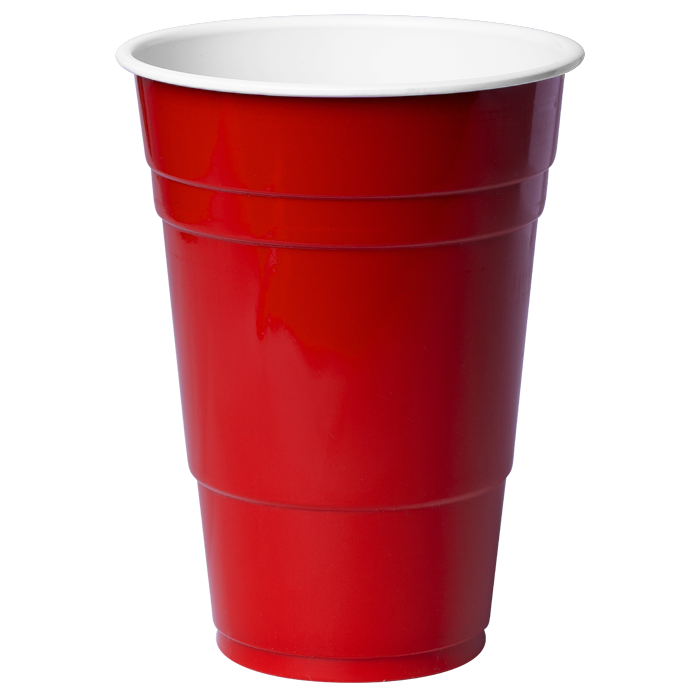
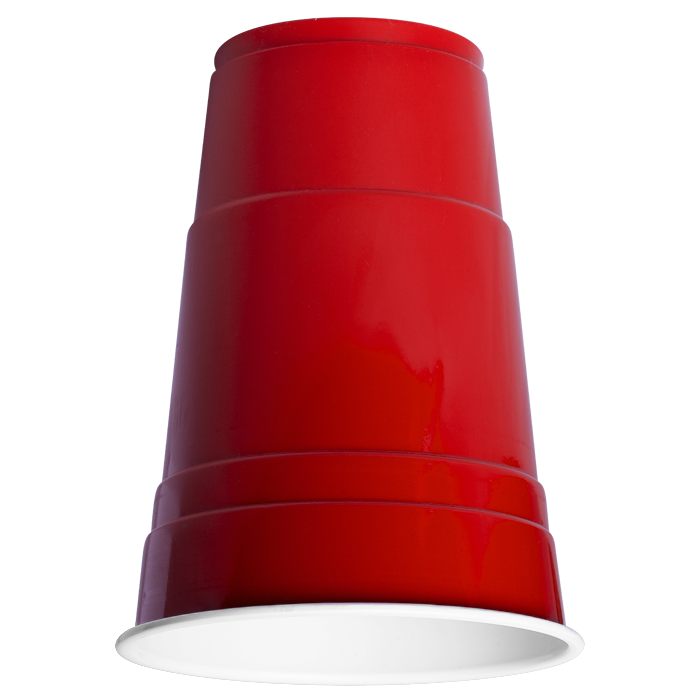
cup working

diff --git a/App.js b/App.js
@@ -20,7 +20,9 @@ import {
     StyleSheet,
     Text,
     useColorScheme,
+    Animated,
     View,
+    Easing,
 } from 'react-native';
 
 import {
@@ -30,45 +32,34 @@ import {
     LearnMoreLinks,
     ReloadInstructions,
 } from 'react-native/Libraries/NewAppScreen';
-import { width } from '@mui/system';
-import { grey } from '@mui/material/colors';
+import { style } from '@mui/system';
 
+let rotateValueHolder = new Animated.Value(0);
 
 /* $FlowFixMe[missing-local-annot] The type annotation(s) required by Flow's
  * LTI update could not be added via codemod */
-const Section = ({ children, title }): Node => {
-    const isDarkMode = useColorScheme() === 'dark';
-    return (
-    <View style = { styles.sectionContainer } >
-        <Text style = {
-            [
-                styles.sectionTitle,
-                {
-                    color: isDarkMode ? Colors.white : Colors.black,
-                },
-            ]
-        } > { title } </Text> <Text style = {
-            [
-                styles.sectionDescription,
-                {
-                    color: isDarkMode ? Colors.light : Colors.dark,
-                },
-            ]
-        } > { children } </Text> </View>
-    );
-};
+
 var activeColor ="#3f1551";
 var boolColor = 'darkgrey';
+var runOnce = 0;
 const App: () => Node = () => {
 
 const question = "Ready to Bool?"
 const boolLabel = "BOOL!";
-    const [isShown, setIsShown] = useState(false);
+const [isShown, setIsShown] = useState(false);
 const toggleBool = () => {
-    boolColor = 'red';
-    setIsShown((previousState) => !previousState);
-}
-    return (
+rotateValueHolder.setValue(isShown);
+ setIsShown((previousState) => !previousState);
+    Animated.timing(rotateValueHolder, {
+      toValue: !isShown,
+      duration: 300,
+      easing: Easing.linear,
+      useNativeDriver: false,
+    }).start();
+
+};
+
+return (
     <SafeAreaView style = { isShown ? styles.backgroundActive : styles.mainPage  } >
  <View style = { isShown ? styles.backgroundActiveContainer : styles.container  } >
     {isShown ? <Text style={isShown ? styles.labelActive : styles.labelInactive}>{boolLabel}</Text> : <Text style={styles.blandLetters}>{question}</Text>}
@@ -86,17 +77,37 @@ const toggleBool = () => {
 
         </View>
         <View style={ isShown ? styles.backgroundActiveContainerCup : styles.cupContainer  }>
-            <Cup flippedState={!isShown}/>
+            {isShown ? <Cup startPos={1} styleCup={styles.rotate} /> : <Cup startPos={0} styleCup={styles.rotate} />  }
             <View style={styles.spaceAround}>
-            { isShown ?  <AppButton buttonBackground={styles.buttonBackground} buttonText={styles.buttonActive} title="Begin!" size="lg" backgroundColor="#e8ac74" />: null  }
+            { isShown ?  <AppButton buttonBackground={styles.buttonBackground} buttonText={styles.buttonActive} title="View Map" size="lg" backgroundColor="#e8ac74" />: null  }
             </View>
         </View>
         </SafeAreaView>
     );
 
 };
+const RotateData = rotateValueHolder.interpolate({
+    inputRange: [0, 1],
+    outputRange: ['180deg', '0deg'],
+  });
 
+const RotateReverse = rotateValueHolder.interpolate({
+    inputRange: [0, 1],
+    outputRange: ['0deg', '180deg'],
+})
 const styles = StyleSheet.create({
+    rotate: {
+        justifyContent: 'center',
+        width: 100,
+        height: 100,
+        transform: [{rotate: RotateReverse}],
+    },
+    basicCup: {
+        transform: [{rotate: RotateData}],
+        justifyContent: 'center',
+        width: 100,
+        height: 100,
+    },
     blandLetters:{
         fontFamily: 'Courier',
         position: 'absolute',

diff --git a/components/Cup.js b/components/Cup.js
@@ -1,31 +1,19 @@
 /* eslint-disable prettier/prettier */
 import React from "react";
-import {Image, StyleSheet} from 'react-native';
+import {Easing, Image, StyleSheet, Animated} from 'react-native';
 
 
-const Cup = ({flippedState}) => (
-
-
-    flippedState ? <Image style={styles.rotate} source={require('./img/cup.png')} /> : <Image style={styles.basicCup} source={require('./img/cup.png')} />
+const Cup = ({startPos, styleCup}) => (
+    <Animated.Image style={styleCup} source={require('./img/cup.png')} />
 
 );
 
-
 const styles = StyleSheet.create({
-    rotate: {
+    base: {
         justifyContent: 'center',
         width: 100,
         height: 100,
-        transform: [{rotate: '180deg'}],
-        transition: 'transform 150ms ease', // smooth transition
-    },
-    basicCup: {
-        transform: [{rotate: '0deg'}],
-        transition: 'transform 150ms ease',
-        justifyContent: 'center',
-        width: 100,
-        height: 100,
-    },
-});
-
+        transform: [{rotate: '0deg'}]
+    }
+})
 export default Cup;
